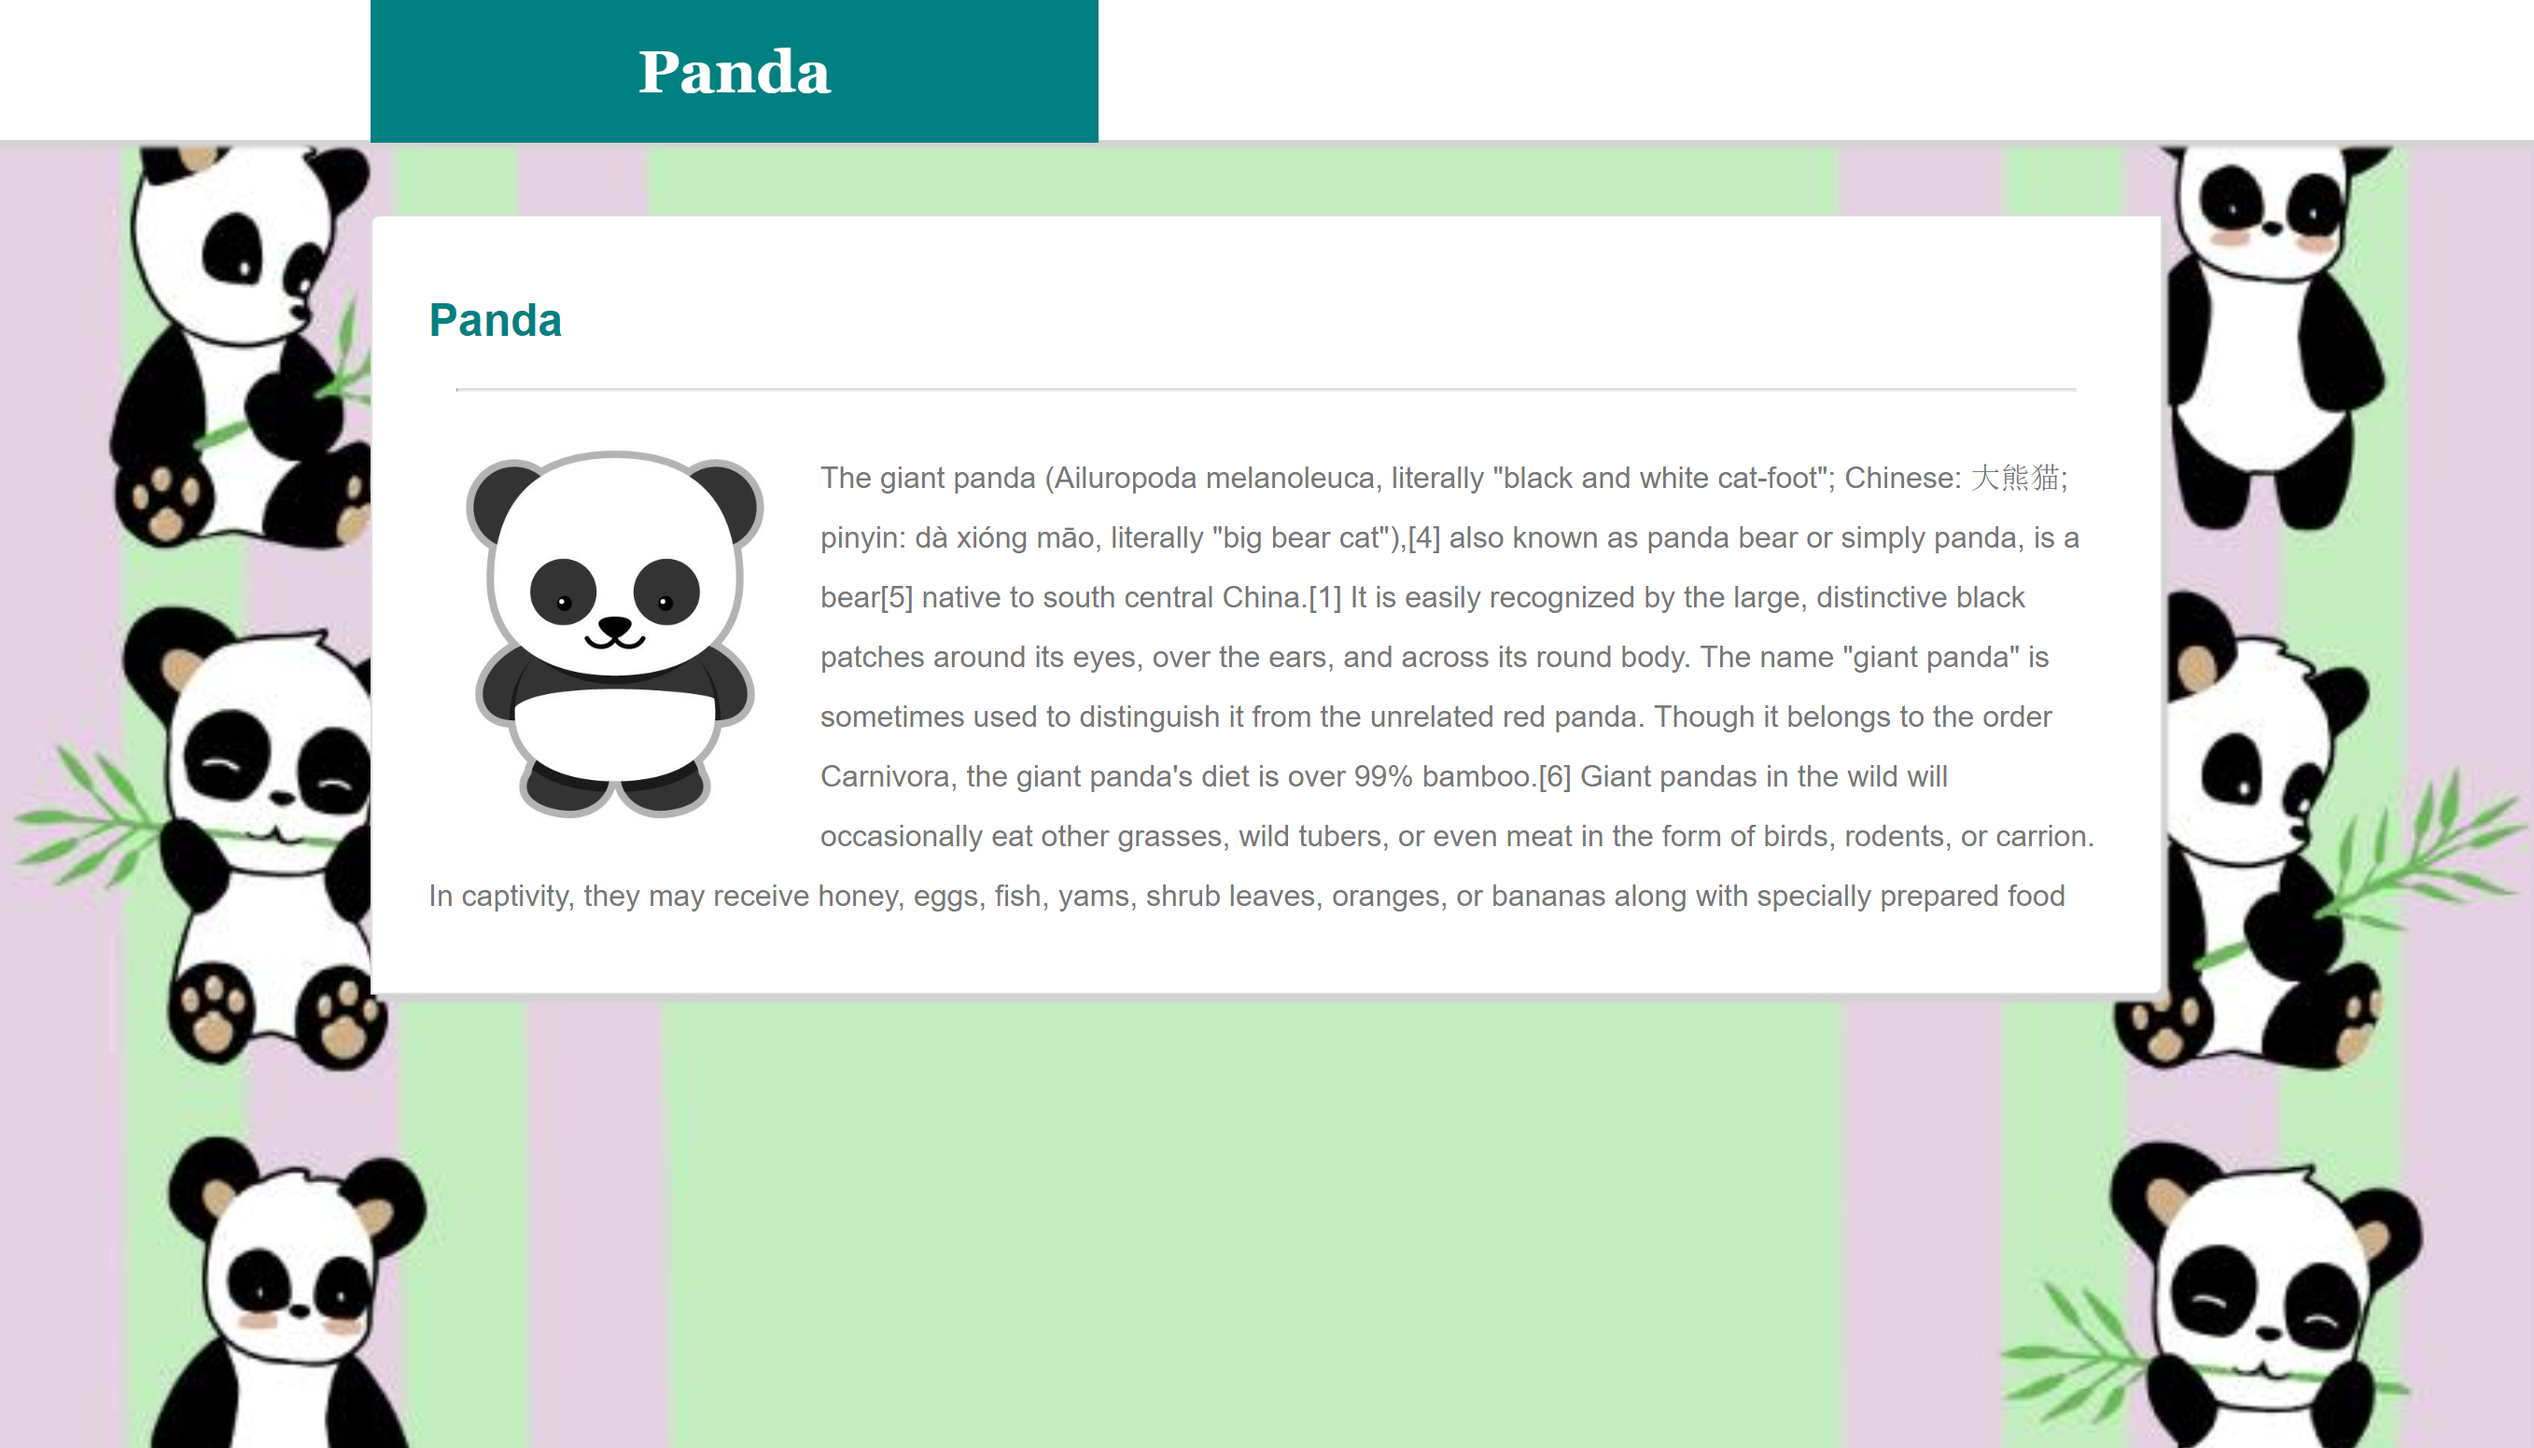
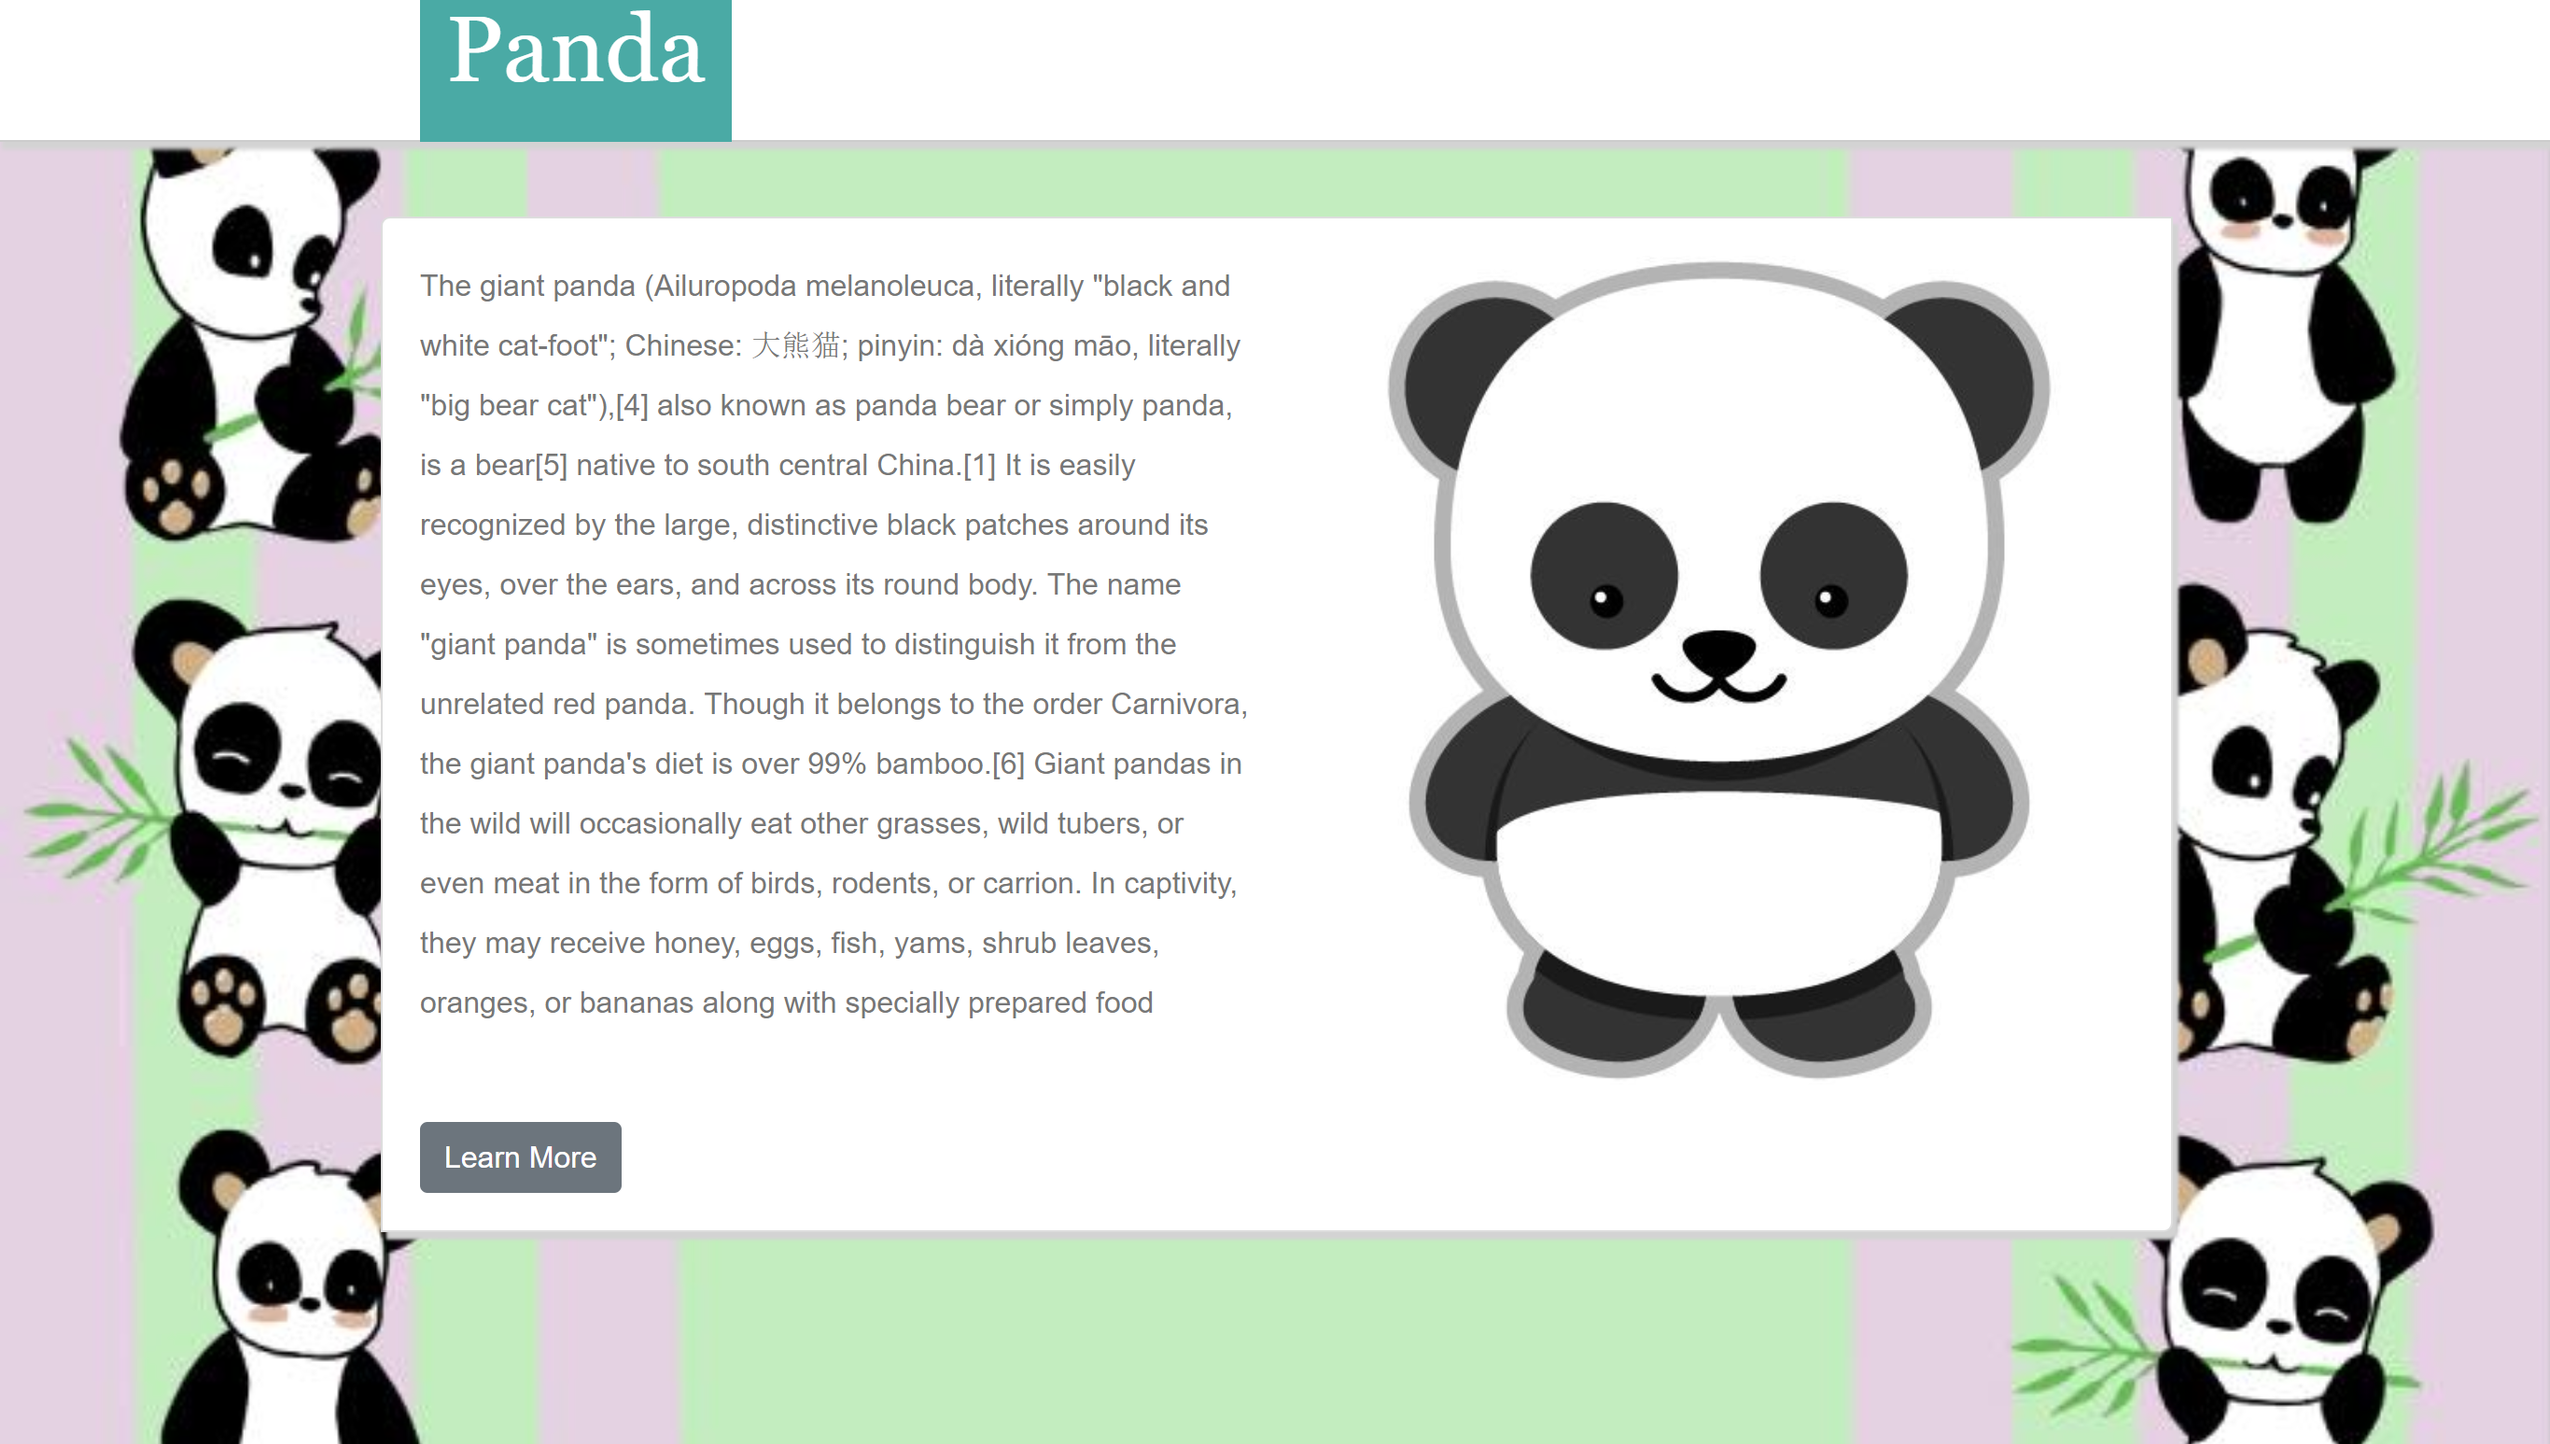
added bootstrap

diff --git a/index.html b/index.html
@@ -5,7 +5,9 @@
     <meta name="viewport" content="width=device-width, initial-scale=1.0">
     <meta http-equiv="X-UA-Compatible" content="ie=edge">
     <title>Website Again...</title>
+    <link rel="stylesheet" href="https://maxcdn.bootstrapcdn.com/bootstrap/4.1.0/css/bootstrap.min.css">
     <link rel="stylesheet" href="style.css">
+
 </head>
 <body>
     <header>
@@ -15,13 +17,28 @@
     </header>
 
 
-    <div class="container">
-        <section class="info">
+    <!-- <div class="container-fluid ">
+        <div class="row jumbotron">
             <h2>Panda</h2>
             <hr>
-            <img src="images/panda-500X500.jpg" id="me-pic" alt="Xion x Roxas">
+            <div class="col-xs-12 col-sm-12 col-md-9 col-lg-9 col-xl-10">
+                <img src="images/panda-500X500.jpg" id="me-pic" alt="Xion x Roxas">
+            </div>
             <p>The giant panda (Ailuropoda melanoleuca, literally "black and white cat-foot"; Chinese: 大熊猫; pinyin: dà xióng māo, literally "big bear cat"),[4] also known as panda bear or simply panda, is a bear[5] native to south central China.[1] It is easily recognized by the large, distinctive black patches around its eyes, over the ears, and across its round body. The name "giant panda" is sometimes used to distinguish it from the unrelated red panda. Though it belongs to the order Carnivora, the giant panda's diet is over 99% bamboo.[6] Giant pandas in the wild will occasionally eat other grasses, wild tubers, or even meat in the form of birds, rodents, or carrion. In captivity, they may receive honey, eggs, fish, yams, shrub leaves, oranges, or bananas along with specially prepared food</p>
         </section>
+    </div> -->
+
+    <div class="container-fluid padding container section">
+        <div class="row padding">
+            <div class="col-lg-6">
+                <p>The giant panda (Ailuropoda melanoleuca, literally "black and white cat-foot"; Chinese: 大熊猫; pinyin: dà xióng māo, literally "big bear cat"),[4] also known as panda bear or simply panda, is a bear[5] native to south central China.[1] It is easily recognized by the large, distinctive black patches around its eyes, over the ears, and across its round body. The name "giant panda" is sometimes used to distinguish it from the unrelated red panda. Though it belongs to the order Carnivora, the giant panda's diet is over 99% bamboo.[6] Giant pandas in the wild will occasionally eat other grasses, wild tubers, or even meat in the form of birds, rodents, or carrion. In captivity, they may receive honey, eggs, fish, yams, shrub leaves, oranges, or bananas along with specially prepared food</p>
+                <br>
+                <a href="#"><button type="button" class="btn btn-secondary">Learn More</button></a>
+            </div>
+            <div class="col-lg-6">
+                <img src="images/panda-500X500.jpg" alt="450x317" class="img-fluid">
+            </div>
+        </div>
     </div>
 
 

diff --git a/style.css b/style.css
@@ -1,25 +1,25 @@
 body {
-    margin: 0px;
-    padding: 0px;
     font-family: 'Arial', 'Helvetica Neue', Helvetica, sans-serif;
     color: #777777;
     background-image: url("images/panda_-background.jpg");
-    /* background-repeat: repeat; */
     background-size: cover;
-    position: relative;
     height: 100%;
 }
 
 
 header {
-    padding: 0px;
-    margin-top: 0px;
     background-color: #fff;
     width: 100%;
     box-shadow: 1px 4px 3px lightgray;
+    border-bottom: 1px solid #cccccc;
+    background-color: #fff;
+    min-width: 960px;
+    height: 80px;
 }
 
-section {
+
+
+.section {
     border: 1px solid #dddddd;
     border-radius: 5px 0px;
     margin-top: 40px;
@@ -30,43 +30,35 @@ section {
     box-shadow: 3px 4px 2px lightgray;
 }
 
-h2 {
-    color: teal;
-}
-
-hr {
-    margin: 0px 15px 30px 15px;
-    border-top: 1px solid #dddddd;
-}
-
 .container {
     width: 960px;
-    margin: 0px auto;
 }
 
-.top-height{
-    height: 75px;
+.padding {
+    padding: 10px;
 }
 
 .top-name {
-    width: 350px;
-    background-color: teal;
+    position: relative;
     color: #fff;
     font-family: 'Georgia', Times, Times New Roman, serif;
     float: left;
-    margin: 0px;
-    text-align: center;
-    padding: 20px;
+    margin-top: 0px;
+    margin-left: 20px;
+    font-size: 50px;
+    z-index: 1;
+}
+
+.top-name::before {
+    content: '';
+    position: absolute;
+    left: -10%;
+    width: 120%;
+    height: 80px;
+    background-color: #4aaaa5;
+    z-index: -1;
 }
 
 .outside {
     margin: 100px;
-}
-
-/* Index page picture */
-#me-pic {
-    width: 200px;
-    height: 200px;
-    margin-right: 10px;
-    float: left;
 }
